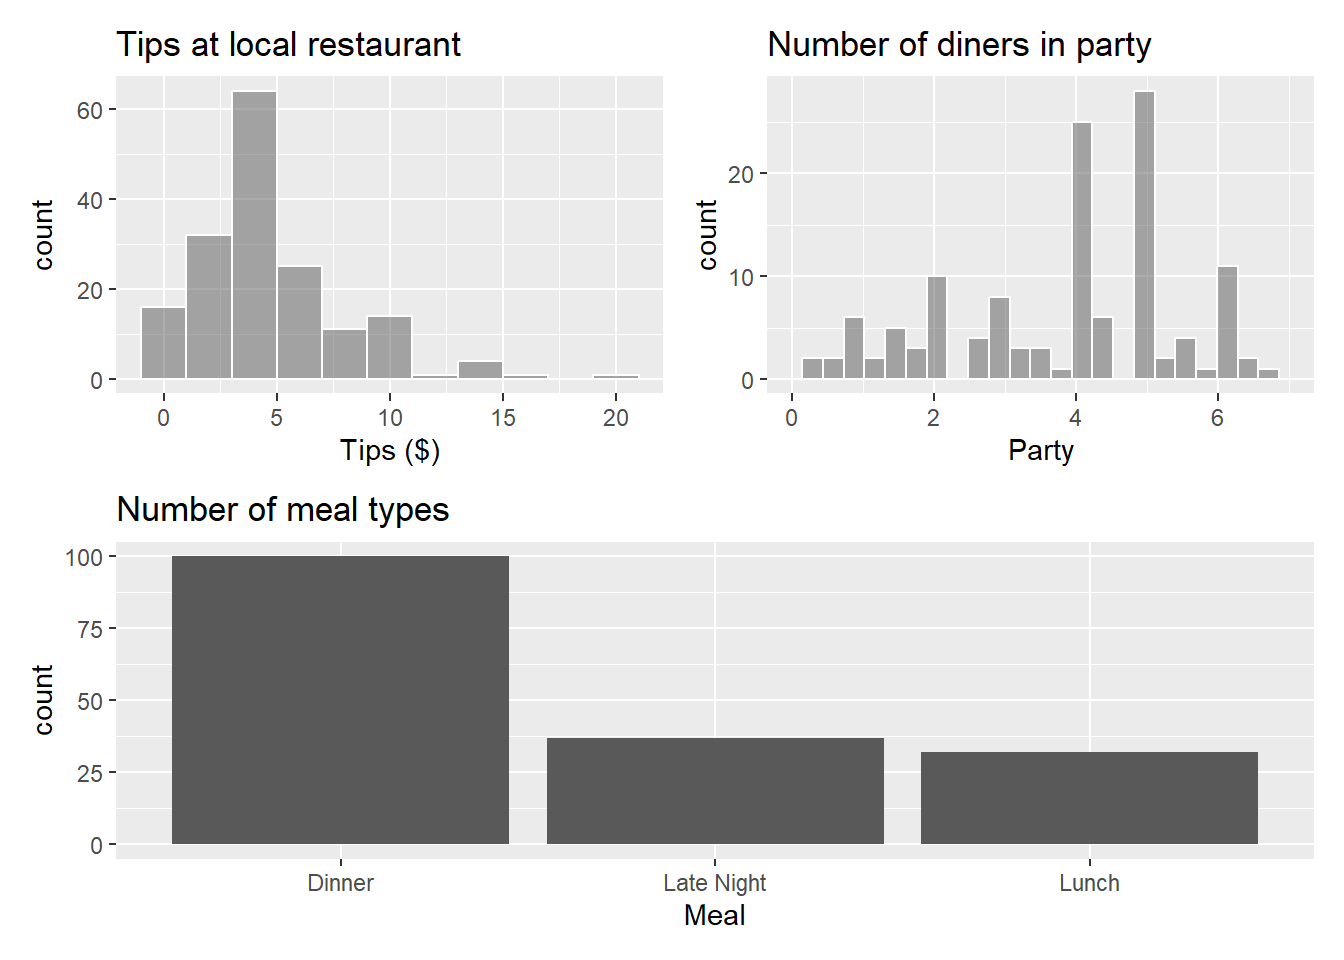
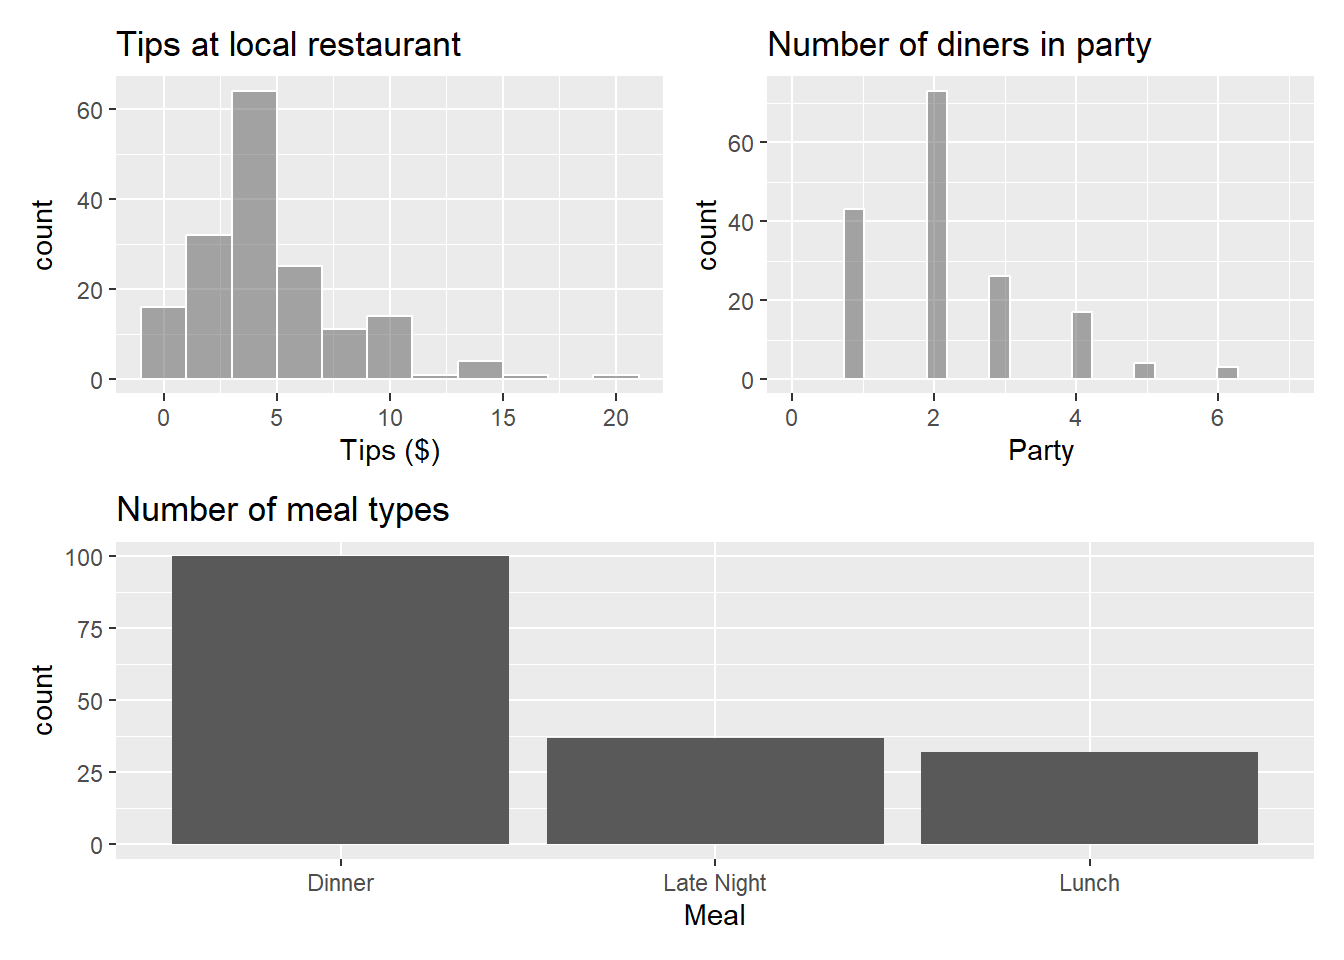
Updated typo

diff --git a/_site/ae/exam-01-review.html b/_site/ae/exam-01-review.html
@@ -367,7 +367,7 @@ $ `Tip Percentage` &lt;dbl&gt; 0.1757790, 0.1405481, 0.2384359, 0.1916627, 0.298
 <span id="cb4-4"><a href="#cb4-4" aria-hidden="true" tabindex="-1"></a>       <span class="at">title =</span> <span class="st">"Tips at local restaurant"</span>)</span>
 <span id="cb4-5"><a href="#cb4-5" aria-hidden="true" tabindex="-1"></a></span>
 <span id="cb4-6"><a href="#cb4-6" aria-hidden="true" tabindex="-1"></a>p2 <span class="ot">&lt;-</span>  tips <span class="sc">|&gt;</span> </span>
-<span id="cb4-7"><a href="#cb4-7" aria-hidden="true" tabindex="-1"></a>  <span class="fu">gf_histogram</span>(<span class="sc">~</span>Tip, <span class="at">color =</span> <span class="st">"white"</span>) <span class="sc">|&gt;</span> </span>
+<span id="cb4-7"><a href="#cb4-7" aria-hidden="true" tabindex="-1"></a>  <span class="fu">gf_histogram</span>(<span class="sc">~</span>Party, <span class="at">color =</span> <span class="st">"white"</span>) <span class="sc">|&gt;</span> </span>
 <span id="cb4-8"><a href="#cb4-8" aria-hidden="true" tabindex="-1"></a>  <span class="fu">gf_labs</span>(<span class="at">x =</span> <span class="st">"Party"</span>,</span>
 <span id="cb4-9"><a href="#cb4-9" aria-hidden="true" tabindex="-1"></a>       <span class="at">title =</span> <span class="st">"Number of diners in party"</span>) <span class="sc">|&gt;</span> </span>
 <span id="cb4-10"><a href="#cb4-10" aria-hidden="true" tabindex="-1"></a>  <span class="fu">gf_lims</span>(<span class="at">x=</span><span class="fu">c</span>(<span class="dv">0</span>, <span class="dv">7</span>))</span>

diff --git a/_site/ae/ae-07-model-eval.html b/_site/ae/ae-07-model-eval.html
@@ -335,9 +335,9 @@ Important
 <p>It contains numerous characteristics for each song. You can see the full list of variables and definitions <a href="https://github.com/rfordatascience/tidytuesday/blob/master/data/2020/2020-01-21/readme.md">here</a>. This analysis will focus specifically on the following variables:</p>
 <table class="caption-top table">
 <colgroup>
-<col style="width: 12%">
-<col style="width: 12%">
-<col style="width: 75%">
+<col style="width: 4%">
+<col style="width: 2%">
+<col style="width: 92%">
 </colgroup>
 <thead>
 <tr class="header">
@@ -521,6 +521,16 @@ Important
 <section id="exercise-2" class="level2">
 <h2 class="anchored" data-anchor-id="exercise-2">Exercise 2</h2>
 <p>Calculate RMSE and interpret this value in the context of the data.</p>
+<pre><code>    \newcommand{\E}{\mathbb{E}}
+    \newcommand{\Var}{\text{Var}}
+    \newcommand{\SD}{\text{SD}}
+    \newcommand{\PP}{\text{P}}
+    \newcommand{\bq}{\begin{questions}}
+    \newcommand{\eq}{\end{questions}}
+    \newcommand{\bp}{\begin{parts}}
+    \newcommand{\ep}{\end{parts}}
+    \newcommand{\bs}{\begin{subparts}}
+    \newcommand{\es}{\end{subparts}}</code></pre>
 </section>
 <section id="exercise-3" class="level2">
 <h2 class="anchored" data-anchor-id="exercise-3">Exercise 3</h2>
